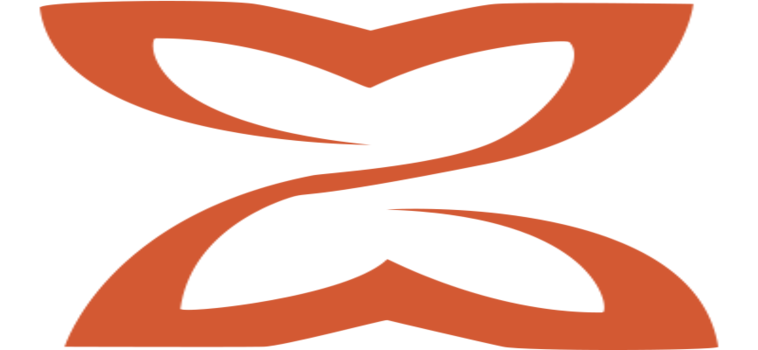
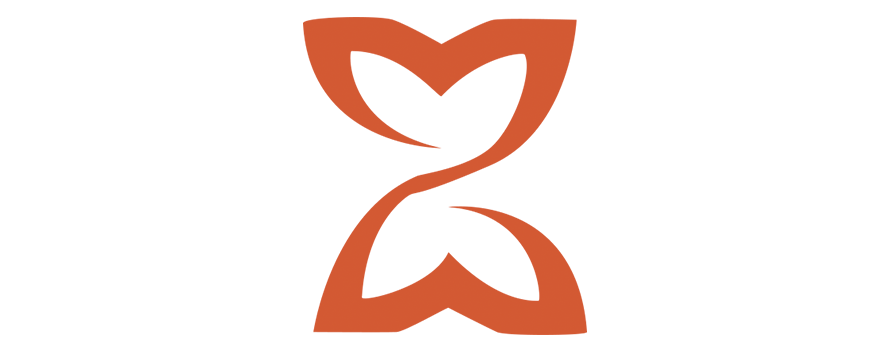
z cover_image anf fb image changed

diff --git a/spec/helpers/articles_helper_spec.rb b/spec/helpers/articles_helper_spec.rb
@@ -4,7 +4,7 @@ describe ArticlesHelper do
   context 'cover_image_url_for' do
     it 'should set the cover_image default image url if no image is provided' do
       article = create(:article)
-      expect(helper.cover_image_url_for(article)).to eq("http://test.host/assets/z_medium.png")
+      expect(helper.cover_image_url_for(article)).to eq("http://test.host/assets/z_original.png")
     end
 
     it 'should set the actual cover_image url, if present' do

diff --git a/app/helpers/articles_helper.rb b/app/helpers/articles_helper.rb
@@ -1,5 +1,5 @@
 module ArticlesHelper
   def cover_image_url_for(article)
-    url_to_image(article.cover_image.url(:medium))
+    url_to_image(article.cover_image.url)
   end
 end
